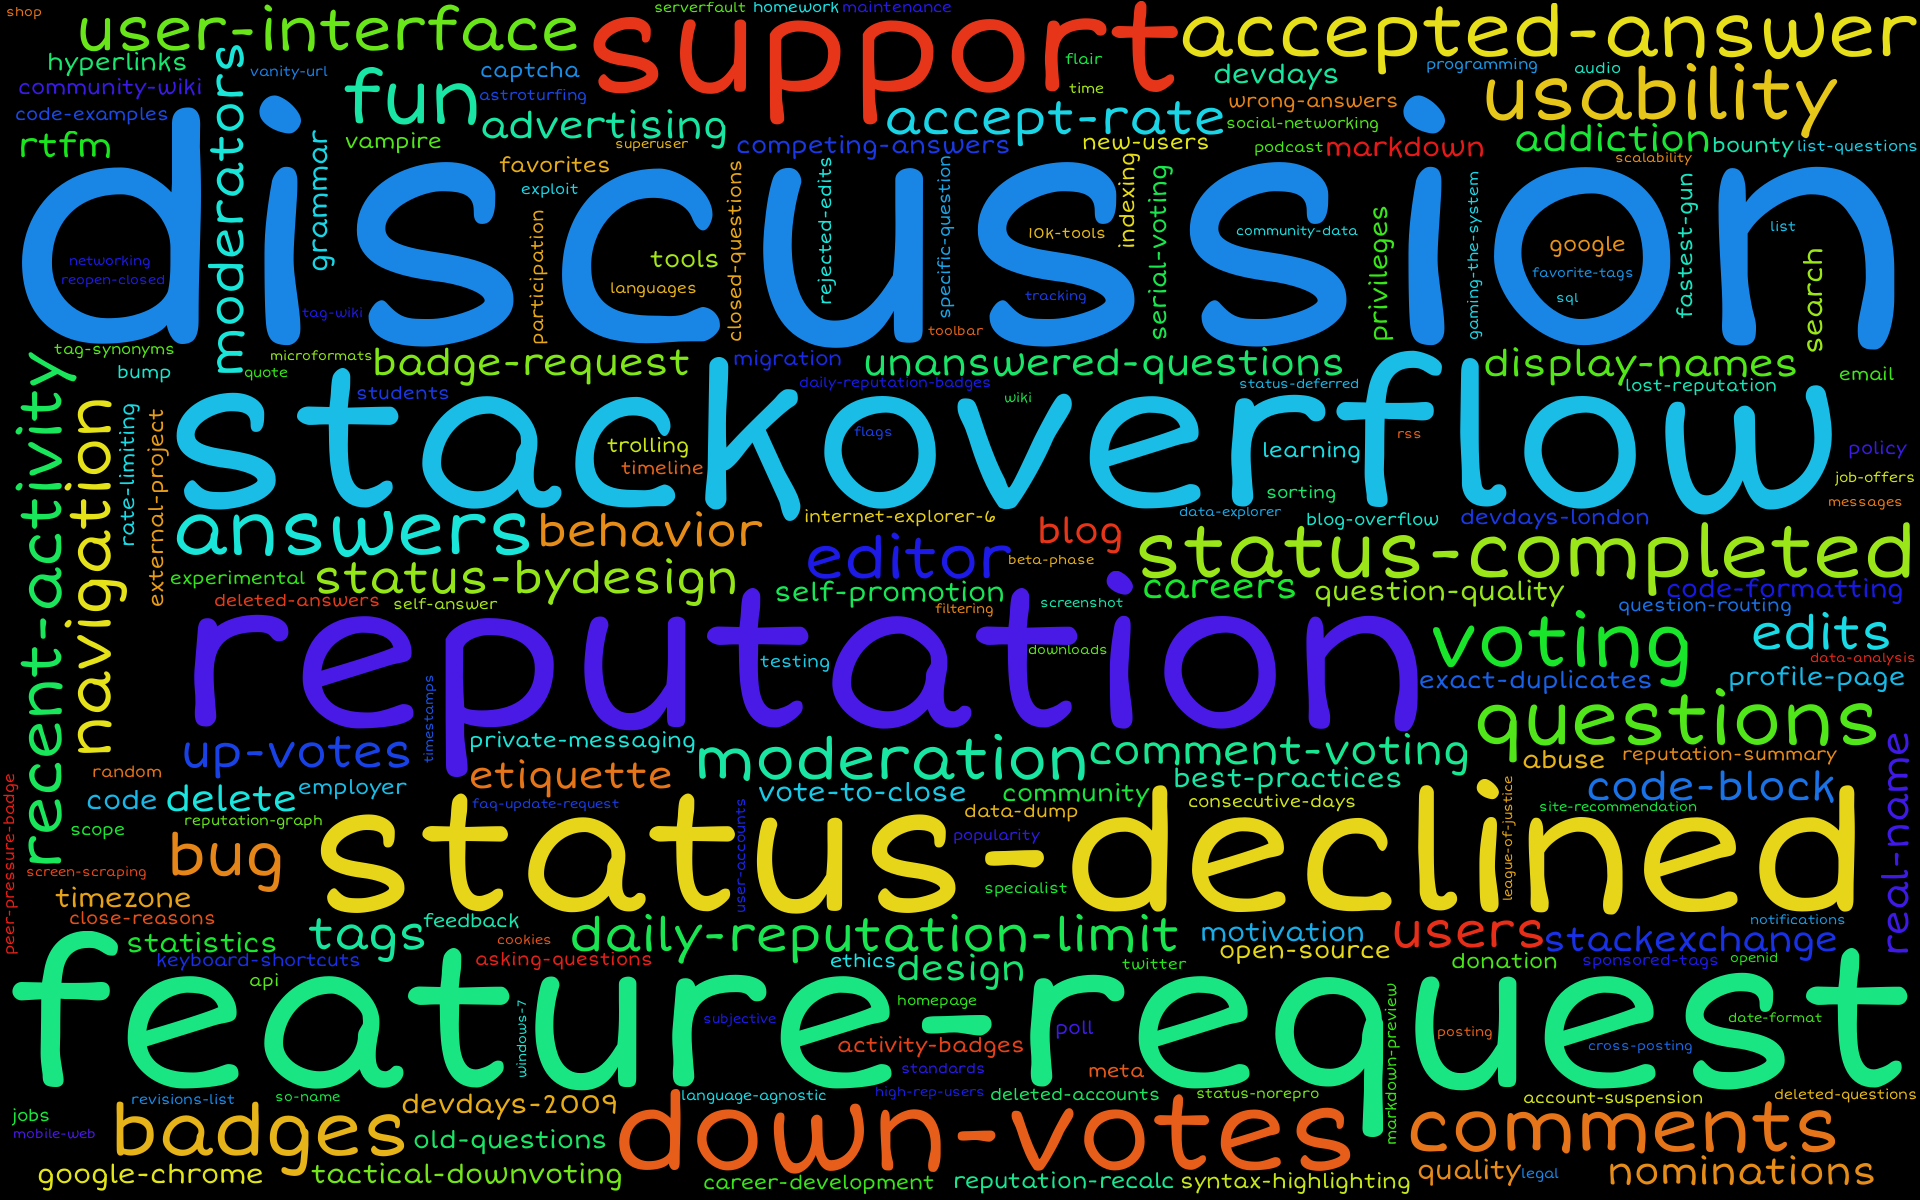
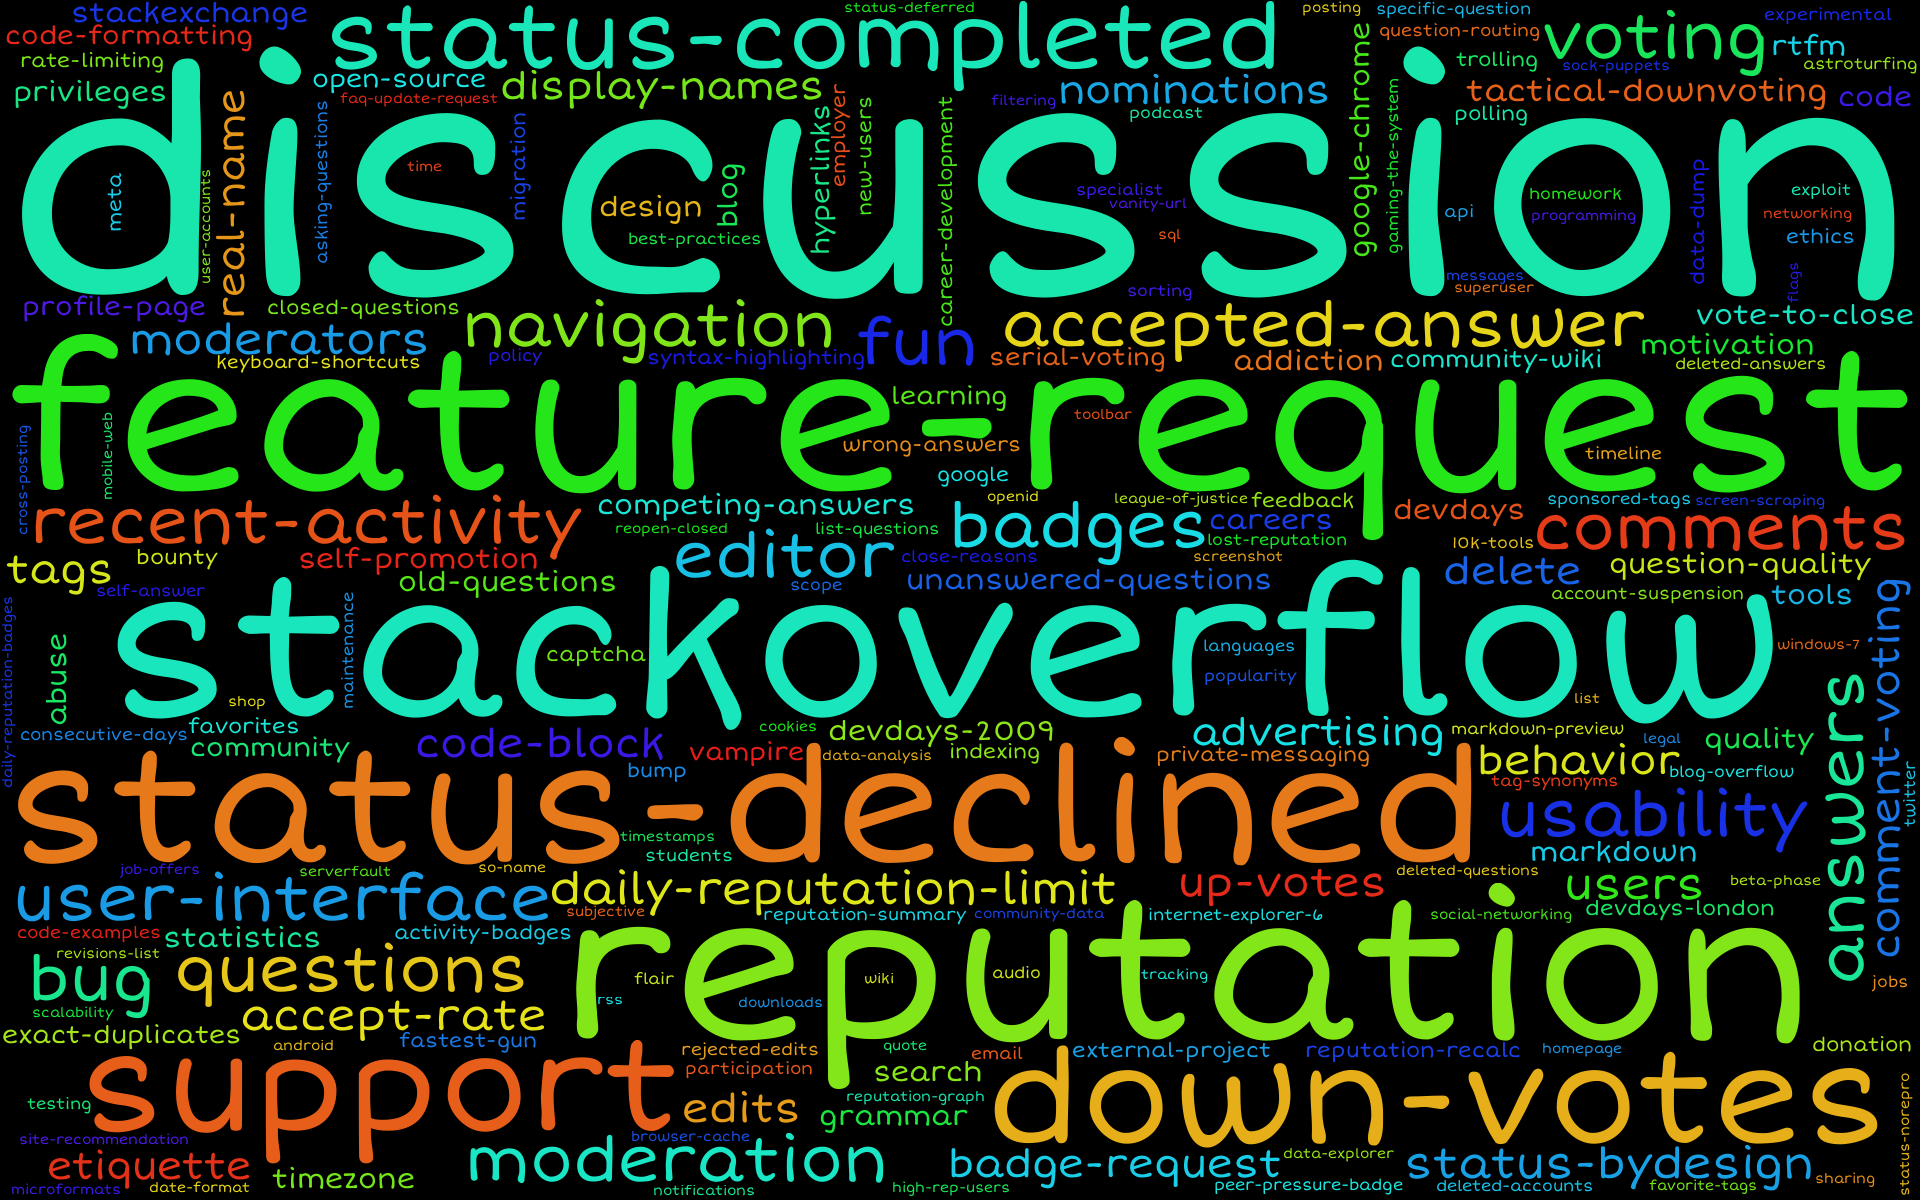
Adding new release to make it work with updated Python modules

diff --git a/stackoverflow_users_taginfo.py b/stackoverflow_users_taginfo.py
@@ -2,6 +2,8 @@ from bs4 import BeautifulSoup
 import numpy as np
 import requests
 import itertools
+import sys
+from wordcloud import WordCloud
 
 def toint(a):
     """ Convert string to int and also scale them accordingly if they end 
@@ -14,7 +16,7 @@ def toint(a):
     return int(a)
 
 
-def taginfo(link, num_tags = -1, return_sort = True):
+def taginfo(link, num_tags = None, return_sort = True, print_page_count = False):
     """ Get information about Stack Overflow and all Stack Exchange sites users' 
     tags (tags and corresponding tag points scored). 
     This could be directly used with wordcloud module for generating a tag cloud.
@@ -62,9 +64,22 @@ def taginfo(link, num_tags = -1, return_sort = True):
     # Html codes to be detected for parsing relevant info
     tag_start_str = " Tags\r\n"  # html parsing string to detect start of tag block
     newline_str = "\n"           # newline string
-    mult_str =  "\xc3\x97"       # utf-8 encoded hex string as they appear right after each tag name
-    nobreak_str = "\xc2\xa0"     # utf-8 encoded no-break space that appears after hex string
     timeout_max_pages = 100      # Max number of pages to be scanned (acts as a timeout criteria)
+        
+    
+    # Detect the indices for newlines
+    start_link0 = start_link + "1"
+    soup = BeautifulSoup(requests.get(start_link0).text,"lxml")
+    texts = soup.findAll(text=True)
+    idx_nl = np.where([item.startswith(tag_start_str) for item in texts])[0]
+    
+    # If an invalid webpage were fed, we would have empty idx_nl. 
+    # If so, exit out with None.
+    if len(idx_nl)==0:
+        return None
+
+    if num_tags==None: 
+        num_tags = int(texts[idx_nl[0]-1].replace(",",""))
 
     # Set number of tag pages to be scanned
     max_pages = timeout_max_pages
@@ -76,41 +91,36 @@ def taginfo(link, num_tags = -1, return_sort = True):
     tag_count = []
     for page_id in range(1,max_pages):
         
+        if print_page_count==1:
+            print("Processing page : " + str(page_id) + "/" + str(max_pages-1))
+            sys.stdout.flush()
+        
         # 1. Get link for each tag page iteratively. Extract text only info
         link = start_link + str(page_id)        
+
+        # 2. Get webpage text data
         soup = BeautifulSoup(requests.get(link).text,"lxml")
         texts = soup.findAll(text=True)
-        
-        # 2.Crop out tag block from the text
-        ## Detect starting index of tag block and crop "texts" starting at it
-        start_idx = np.where([item.startswith(tag_start_str) for item in texts])[0]
-        if len(start_idx)==0:
-            # Error : Tag block start not found. Most probably the profile does not exist!
-            return -1
-        texts1 = texts[start_idx:]
             
-        ## Detect ending index of tag block and thus crop out tag block
-        N = 8 # parameter used for convolution to find start, stop of tag block        
-        stop_idx = np.where(np.convolve([item.startswith(newline_str) for item in texts1],np.ones(N),'same')>=N)[0] - N/2
-        tag_block = texts[start_idx+stop_idx[0]+N:start_idx+stop_idx[1]]
-        if len(tag_block)==0:
-            break
-
-        # 3. Remove irrelevant text from tag block
-        ## Masks to detect newlines and hex strings
-        newline_str_mask = np.array([item.startswith(newline_str) for item in tag_block])        
-        mult_str_mask = np.array([item.encode("utf-8").startswith(mult_str) for item in tag_block])        
-
-        ## Common mask to detect no-break space and the immediate next string
-        nobreak_str_mask = np.convolve([item.encode("utf-8").startswith(nobreak_str) for item in tag_block],np.ones(2),'same')>0
-
-        # Remove irrelevnt info with masks, leaving us with tag names and counts
-        select_idx = np.where(~(newline_str_mask | mult_str_mask | nobreak_str_mask))[0]
-        out_info = [str(tag_block[id]) for id in select_idx]
-
-        ## 4. Finally separate out names and counts into two lists
-        tag_name.append(out_info[1::2])
-        tag_count.append([toint(item) for item in out_info[::2]])
+        # 3. Get block of text data that contains tag info (name and score/count)
+        start_idx = np.where([item.startswith(tag_start_str) for item in texts])[0][0]
+        texts1 = np.array(texts[start_idx:])
+        
+        # 4. Detect ending index of tag block and thus crop out tag block
+        N1 = 8 # parameter used for convolution to find start, stop of tag block   
+        N2 = 2 # no. of newlines used right before each tag count
+        sep_idx = np.where(np.convolve(texts1 == newline_str, np.ones(N1))==N1)[0]
+        tagcode = texts1[sep_idx[0]-1 : sep_idx[1]]
+        
+        # 5. Get tag names and count
+        idx1 = np.convolve(tagcode == newline_str, np.ones(N2),'same')>=N2
+        idx2 = np.flatnonzero(idx1[1:] < idx1[:-1])+1
+        page_tag_count = [toint(i.encode("utf-8")) for i in tagcode[idx2]]
+        page_tag_name = [i.encode("utf-8") for i in tagcode[idx2+2]]
+        
+        ## 6. Finally accumulate data into output lists
+        tag_name.append(page_tag_name)
+        tag_count.append(page_tag_count) 
         
     # III. For a case when all tag counts are zeros, it would throw error.
     # So, for such a case, escape it by setting all counts to "1".
@@ -122,5 +132,42 @@ def taginfo(link, num_tags = -1, return_sort = True):
     if return_sort:
         info = [info[idx] for idx in np.argsort([item[1] for item in info])[::-1]]
     return info
-
     
+    
+def tag_cloud(link=22656, num_tags = 200, image_dims = (400, 200), out_filepath = "TagCloud.png"):
+    
+    """ Generate tag cloud and save it as an image.
+
+    Parameters
+    ----------
+    
+    link : same as used for the function taginfo.
+
+    num_tags : same as used for the function taginfo.
+
+    image_dims : tuple of two elements.
+        Image dimensions of the tag cloud image to be saved.
+        
+    out_filepath : string
+        Output image filepath.
+        
+    Output
+    ------
+    
+    None
+    """
+
+    W, H = image_dims    # Wordcloud image size (width, height)
+    font_path = "fonts/ShortStack-Regular.ttf" # Font path    
+    info = taginfo(link = link, num_tags = num_tags)
+    if info==None: 
+        print("Error : No webpage found!")
+    else:    
+        if len(info)==0:
+            print("Error : No tags found!")
+        else:         # Successfully extracted tag info
+            WC = WordCloud(font_path=font_path, width=W, height=H, \
+                    max_words=len(info)).generate_from_frequencies(info)
+            WC.to_image().save(out_filepath)
+            print("Tag Cloud Saved as " + out_filepath)
+        

diff --git a/example_extensive2.py b/example_extensive2.py
@@ -1,11 +1,4 @@
-from stackoverflow_users_taginfo import taginfo
-from wordcloud import WordCloud
+from stackoverflow_users_taginfo import tag_cloud
 
-# Parameters for wordcloud generation
-W = 1920; H = 1200                         # Wordcloud image size (width, height)
-font_path = "fonts/ShortStack-Regular.ttf" # Font path
-
-info = taginfo(link = "http://meta.stackexchange.com/users/22656", num_tags = 200)
-if info!=-1:  # Successfully extracted tag info
-    WC = WordCloud(font_path=font_path, width=W, height=H, max_words=len(info)).generate_from_frequencies(info)
-    WC.to_image().save('TagCloud.png')
+tag_cloud(link = "http://meta.stackexchange.com/users/22656", \
+    image_dims=(1920,1200), out_filepath = "example_extensive2_output.png")

diff --git a/example_extensive.py b/example_extensive.py
@@ -1,11 +1,4 @@
-from stackoverflow_users_taginfo import taginfo
-from wordcloud import WordCloud
+from stackoverflow_users_taginfo import tag_cloud
 
-# Parameters for wordcloud generation
-W = 3840; H = 2160                         # Wordcloud image size (width, height)
-font_path = "fonts/ShortStack-Regular.ttf" # Font path
-
-info = taginfo(link = 22656, num_tags = 1000)
-if info!=-1:  # Successfully extracted tag info
-    WC = WordCloud(font_path=font_path, width=W, height=H, max_words=len(info)).generate_from_frequencies(info)
-    WC.to_image().save('TagCloud.png')
+tag_cloud(link = 22656, num_tags = 1000, image_dims=(3840,2160),\
+   out_filepath = "example_extensive_output.png")

diff --git a/example_minimal.py b/example_minimal.py
@@ -1,5 +1,3 @@
-from stackoverflow_users_taginfo import taginfo
-from wordcloud import WordCloud
+from stackoverflow_users_taginfo import tag_cloud
 
-info = taginfo(link = 22656, num_tags = 200)
-WordCloud().generate_from_frequencies(info).to_image().save('TagCloud.png')
+tag_cloud(link = 22656)

diff --git a/README.md b/README.md
@@ -1,27 +1,28 @@
 ###Stack Overflow (Stack Exchange) Users Tag Cloud###
 [**Stack Exchange**](http://stackexchange.com/) is a network of `Q&A` websites covering various fields. Users earn reputation and score tag points based on the tags of the questions and answers they involve themselves with. Each user has a tag section under his/her profile page that lists the tag names and the respective counts. The Python scripts in this repository parse and extract the tag names and scores, which could then be fed to [wordcloud module for Python](https://github.com/amueller/word_cloud) to produce a word cloud image with tags being the words and their respective sizes being proportional to the respective scores. The scripts could extract such information from [**all Stack Exchange Q&A sites**](http://stackexchange.com/sites), including of course it's biggest `Q&A` site 
-[**Stack Overflow**](http://stackoverflow.com/). Please note that the scripts work with the current (as of Jan 11th, 2016) webpage format used by Stack Exchange for storing user profiles and their tags information.
+[**Stack Overflow**](http://stackoverflow.com/). Please note that the scripts work with the current (as of <s>Jan 11th, 2016</s> March 7th, 2017) webpage format used by Stack Exchange for storing user profiles and their tags information.
 
 ###Examples###
 
 Let's take Stack Overflow's highest reputation user [Jon Skeet](http://stackoverflow.com/users/22656/jon-skeet) as the sample. His profile page link has the ID : `22656`. So, a minimal Python script to generate his tag-cloud would be -
 
-	from stackoverflow_users_taginfo import taginfo
-	from wordcloud import WordCloud
+	from stackoverflow_users_taginfo import tag_cloud
+	
+	tag_cloud(link = 22656)
 
-	info = taginfo(link = 22656, num_tags = 200)
-	WordCloud().generate_from_frequencies(info).to_image().save('TagCloud.png')
 
 Giving it more options, here's a tag-cloud with the first **`1000`** tags on a `4K canvas` being produced using [example_extensive.py](https://github.com/droyed/stackoverflow_tag_cloud/blob/master/example_extensive.py) -
 
 ![Screenshot](https://raw.githubusercontent.com/droyed/stackoverflow_tag_cloud/master/example_output/example_extensive_output.png)
 
-As a demo on extracting tag information and generating tag-cloud from other Q&A sites, here's a tag-cloud of [Jon Skeet's meta.stackexchange profile](http://meta.stackexchange.com/users/22656) -
+As a demo on extracting tag information and generating tag-cloud from other Q&A sites, here's a tag-cloud of [Jon Skeet's meta.stackexchange profile](http://meta.stackexchange.com/users/22656) generated with  [example_extensive2.py](https://github.com/droyed/stackoverflow_tag_cloud/blob/master/example_extensive2.py) -
 
 ![Screenshot](https://raw.githubusercontent.com/droyed/stackoverflow_tag_cloud/master/example_output/example_extensive2_output.png)
 
+We are living in `8K` age, so here's [Jon Skeet's `1000` tags on `8K` canvas](https://raw.githubusercontent.com/droyed/stackoverflow_tag_cloud/master/example_output/8K.png)!
+
 ###Requirements###
-* Python 2.7.
+* Python 2.x.
 * Python modules : NumPy, Requests, itertools.
 * [BeautifulSoup](http://www.crummy.com/software/BeautifulSoup/) - To extract html information. Works with version 4.4.1, might work with older versions too, but not tested. 
 * [Word_cloud](https://github.com/amueller/word_cloud) - Word cloud creation.
